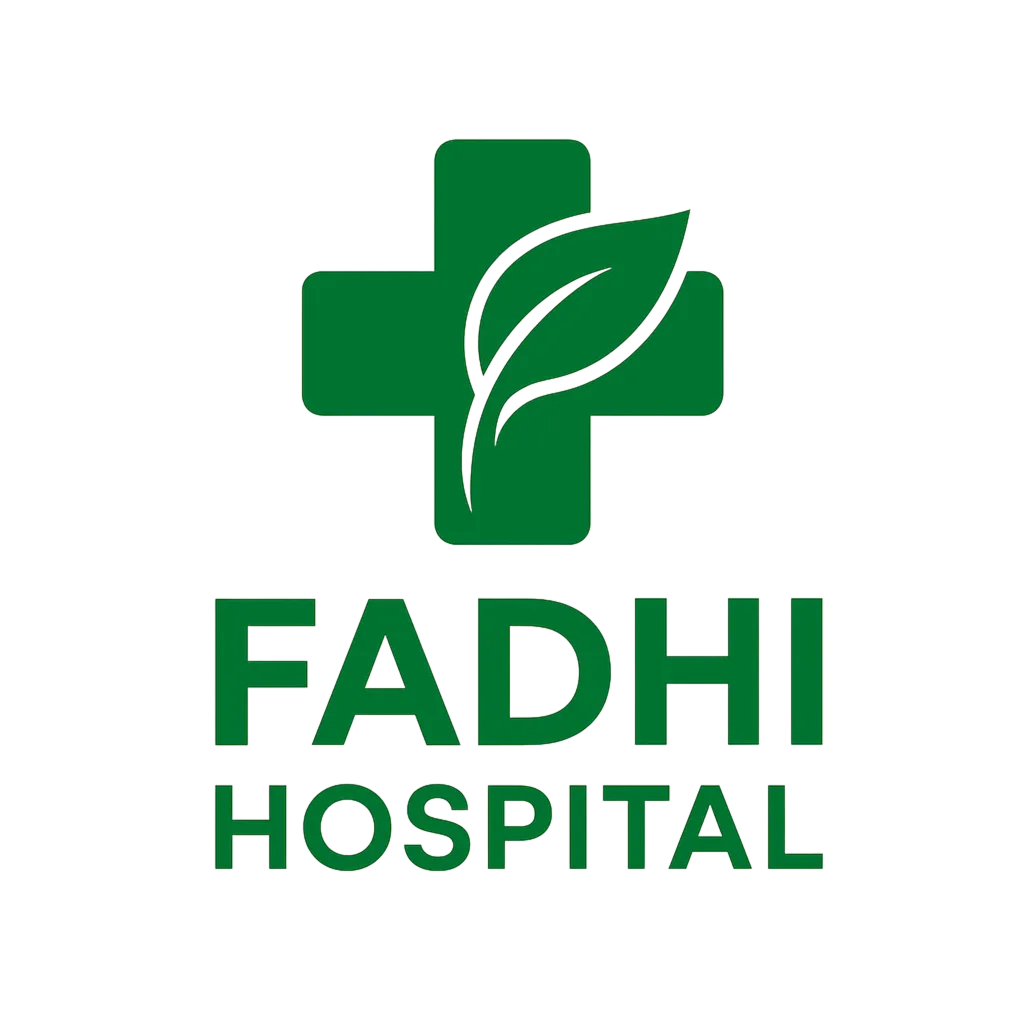
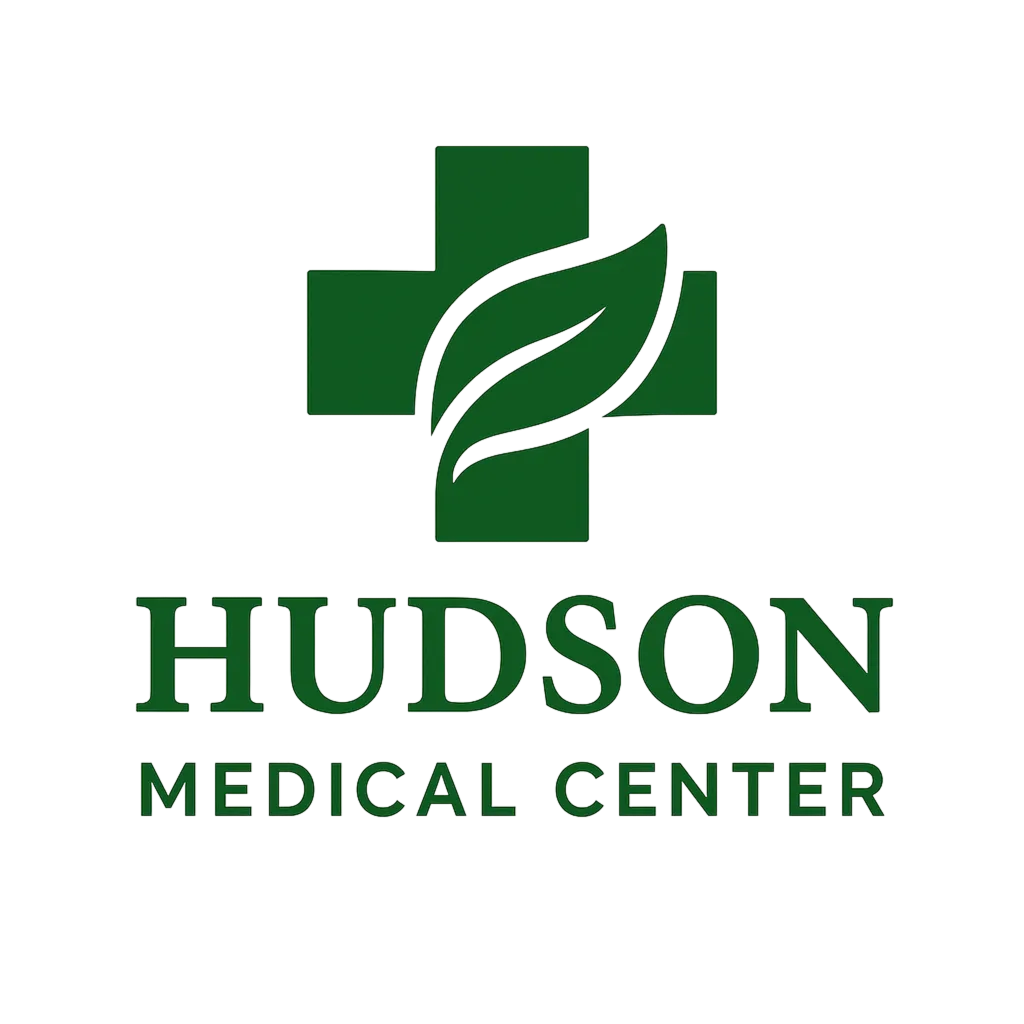
refactor: Update references from Fadhi Hospital to Hudson Medical Center across the application

Changed region(s): [[0.125, 0.5625, 0.875, 0.875], [0.2812, 0.125, 0.7188, 0.5312]]

diff --git a/src/components/Footer.jsx b/src/components/Footer.jsx
@@ -16,13 +16,13 @@ const Footer = () => {
             {logo ? (
               <img 
                 src={logo} 
-                alt="Fadhi Hospital Logo" 
+                alt="Hudson Medical Center" 
                 className="h-10 w-auto mb-4"
                 // If your logo is dark, you might need a light version for the footer
                 // Or add a style like: style={{ filter: 'brightness(0) invert(1)' }}
               />
             ) : (
-              <h2 className="text-2xl font-bold text-white mb-4">Fadhi Hospital</h2>
+              <h2 className="text-2xl font-bold text-white mb-4">Hudson Medical Center</h2>
             )}
             <p className="text-gray-400">
               Providing compassionate, patient-centered healthcare to our community for over 15 years.
@@ -65,7 +65,7 @@ const Footer = () => {
               </li>
               <li className="flex items-start">
                 <FaEnvelope className="w-5 h-5 text-emerald-500 mt-1 mr-3 flex-shrink-0" />
-                <a href="mailto:info@fadhihospital.org" className="hover:text-emerald-500 transition-colors">info@fadhihospital.org</a>
+                <a href="mailto:info@hudsonmedicalcenter.com" className="hover:text-emerald-500 transition-colors">info@hudsonmedicalcenter.com</a>
               </li>
             </ul>
           </div>
@@ -77,7 +77,7 @@ const Footer = () => {
       <div className="bg-gray-800 py-6">
         <div className="container mx-auto px-4 sm:px-6 lg:px-8 flex flex-col md:flex-row justify-between items-center text-center md:text-left">
           <p className="text-gray-400 text-sm">
-            &copy; {new Date().getFullYear()} Fadhi Hospital. All rights reserved.
+            &copy; {new Date().getFullYear()} Hudson Medical Center. All rights reserved.
           </p>
           <div className="flex justify-center gap-5 mt-4 md:mt-0">
             <a href="#" className="text-gray-400 hover:text-emerald-500 transition-colors"><FaTwitter size={20} /></a>

diff --git a/src/components/Navbar.jsx b/src/components/Navbar.jsx
@@ -11,7 +11,7 @@ import AppointmentModal from './AppointmentModal';
 const navLinks = [
   { href: "/", label: "Home" },
   { href: "/about", label: "About" },
-  { href: "/services", label: "Care at Fadhi" },
+  { href: "/services", label: "Care at Hudson " },
   { href: "/contact", label: "Reach Out" },
 ];
 
@@ -68,7 +68,7 @@ const Navbar = () => {
               {logo ? (
                 <img 
                   src={logo} 
-                  alt="Fadhi Hospital Logo"
+                  alt="Hudson Medical Center Logo"
                   className="h-16 w-auto object-contain" 
                   loading="lazy" 
                   decoding="async" 
@@ -78,7 +78,7 @@ const Navbar = () => {
                 <span className={`text-3xl font-extrabold 
                   ${isScrolled ? 'text-Stone-900' : 'text-white'}`
                 }>
-                  Fadhi Hospital
+                  Hudson Medical Center
                 </span>
               )}
             </motion.div>

diff --git a/src/components/HospitalMap.jsx b/src/components/HospitalMap.jsx
@@ -9,7 +9,7 @@ import { FaMapMarkerAlt, FaDirections } from 'react-icons/fa';
 // In a real application, this would be replaced by an actual map library component.
 const mapPlaceholderImage = "https://images.unsplash.com/photo-1596700877918-c2b621e264ee?q=80&w=2070&auto=format&fit=crop"; 
 const hospitalAddress = "123 Health Ave, City, Country";
-const mapLink = "https://www.google.com/maps/search/?api=1&query=Fadhi+Hospital+123+Health+Ave+City"; 
+const mapLink = "https://www.google.com/maps/search/?api=1&query=Hudson+Medical+Center+123+Health+Ave+City"; 
 
 const HospitalMap = () => {
   return (
@@ -33,7 +33,7 @@ const HospitalMap = () => {
         {/* Map Placeholder Image */}
         <img 
           src={mapPlaceholderImage}
-          alt="Map of Fadhi Hospital Location"
+          alt="Map of Hudson Medical Center Location"
           className="w-full h-full object-cover grayscale opacity-70"
           loading="lazy"
           decoding="async"

diff --git a/src/components/FacilityGallery.jsx b/src/components/FacilityGallery.jsx
@@ -39,7 +39,7 @@ const FacilityGallery = () => {
             Modern Facilities & Advanced Technology
           </h3>
           <p className="text-lg text-gray-700 mb-6 leading-relaxed">
-            At Fadhi Hospital, we believe that the environment is crucial for healing. 
+            At Hudson Medical Center, we believe that the environment is crucial for healing. 
             Our modern campus is designed for patient comfort and safety, equipped 
             with cutting-edge diagnostic and treatment technology.
           </p>
@@ -85,7 +85,7 @@ const FacilityGallery = () => {
             >
               <img 
                 src={src} 
-                alt={`Fadhi Hospital Facility ${index + 1}`} 
+                alt={`Hudson Medical Center Facility ${index + 1}`} 
                 className="w-full h-full object-cover" 
                 loading="lazy" 
                 decoding="async"

diff --git a/src/components/ContactFormInfo.jsx b/src/components/ContactFormInfo.jsx
@@ -16,14 +16,14 @@ const ContactFormInfo = () => {
   const handleSubmit = (e) => {
     e.preventDefault();
     console.log('Form Submitted:', formState);
-    alert('Thank you for contacting Fadhi Hospital! We will respond within 24 hours.');
+    alert('Thank you for contacting Hudson Medical Center! We will respond within 24 hours.');
     setFormState({ name: '', email: '', subject: '', message: '' }); // Reset form
   };
 
   const contactDetails = [
     { icon: FaLocationDot, title: 'Main Campus', info: '123 Health Ave, City, Country' },
     { icon: FaPhone, title: 'Appointments', info: '+254 700 123 456' },
-    { icon: FaEnvelope, title: 'General Inquiry', info: 'info@fadhihospital.com' },
+    { icon: FaEnvelope, title: 'General Inquiry', info: 'info@hudsonmedicalcenter.com' },
     { icon: FaClock, title: 'Hours', info: '24/7 Emergency, 9AM-5PM Clinic' },
   ];
 

diff --git a/src/components/AppointmentFAQ.jsx b/src/components/AppointmentFAQ.jsx
@@ -12,7 +12,7 @@ const faqs = [
     answer: "For most primary care physicians, a referral is not required. However, many specialists (like cardiologists or neurologists) may require a referral from your general practitioner, depending on your insurance plan. Please confirm when booking.",
   },
   {
-    question: "What insurance plans does Fadhi Hospital accept?",
+    question: "What insurance plans does Hudson Medical Center accept?",
     answer: "We accept a wide range of national and international insurance providers. A full list can be viewed on our Billing page. We recommend calling our Billing Department at (254) 700 888 999 to verify your specific coverage before your visit.",
   },
   {

diff --git a/src/components/ServicesOverview.jsx b/src/components/ServicesOverview.jsx
@@ -27,7 +27,7 @@ const ServicesOverview = ({ onSearchChange }) => {
           Find the Right Specialty for You
         </h3>
         <p className="text-lg text-gray-600 mb-10">
-          Fadhi Hospital offers a comprehensive range of medical services, from routine check-ups to advanced surgical procedures. Use the search bar below to quickly locate the department you need.
+          Hudson Medical Center offers a comprehensive range of medical services, from routine check-ups to advanced surgical procedures. Use the search bar below to quickly locate the department you need.
         </p>
       </div>
 

diff --git a/src/components/WhyChooseUs.jsx b/src/components/WhyChooseUs.jsx
@@ -46,7 +46,7 @@ const WhyChooseUs = () => {
         className="text-center mb-12"
       >
         <h2 className="text-4xl md:text-5xl font-bold text-gray-900 mb-4">
-          Why Choose <span className="text-emerald-600">Fadhi Hospital?</span>
+          Why Choose <span className="text-emerald-600">Hudson Medical Center?</span>
         </h2>
         <p className="text-lg text-gray-700 max-w-2xl mx-auto">
           Your health is our mission. We are committed to providing exceptional, 

diff --git a/src/components/OurStoryMission.jsx b/src/components/OurStoryMission.jsx
@@ -24,7 +24,7 @@ const OurStoryMission = () => {
             Our Story
           </h2>
           <p className="text-lg text-gray-700 mb-4 leading-relaxed">
-            Founded in 2005, Fadhi Hospital began as a small community clinic with a 
+            Founded in 2005, Hudson Medical Center began as a small community clinic with a 
             simple mission: to provide exceptional, compassionate care to every 
             neighbor who walked through our doors.
           </p>

diff --git a/src/components/LeadershipTeam.jsx b/src/components/LeadershipTeam.jsx
@@ -13,7 +13,7 @@ const leaders = [
   {
     name: "Dr. Laila Fadhi",
     title: "Chief Executive Officer (CEO)",
-    bio: "Dr. Fadhi is the founder of Fadhi Hospital, leading strategic growth and ensuring the hospital's vision of compassionate excellence is realized.",
+    bio: "Dr. Fadhi is the founder of Hudson Medical Center, leading strategic growth and ensuring the hospital's vision of compassionate excellence is realized.",
     image: placeholderImage,
   },
   {

diff --git a/src/components/FacilityVideo.jsx b/src/components/FacilityVideo.jsx
@@ -7,7 +7,7 @@ import { fadeIn, staggerContainer } from '../utils/motion';
 const FacilityVideo = () => {
   // 1. IMPORTANT: Replace this with your actual YouTube video ID or URL
   const videoId = "XXXXXXXXXXX"; // Example: "dQw4w9WgXcQ" for a sample video
-  const videoTitle = "A Tour of Fadhi Hospital's State-of-the-Art Facilities";
+  const videoTitle = "A Tour of Hudson Medical Center's State-of-the-Art Facilities";
 
   return (
     <motion.section

diff --git a/src/components/AboutBrief.jsx b/src/components/AboutBrief.jsx
@@ -8,7 +8,7 @@ import Counter from './Counter'; // Import our new Counter component
 
 const AboutBrief = () => {
  
-  const hospitalName = "Fadhi Hospital"; 
+  const hospitalName = "Hudson Medical Center"; 
   const foundingYear = 2005; 
   const currentYear = new Date().getFullYear();
   const yearsOfOperation = currentYear - foundingYear;
